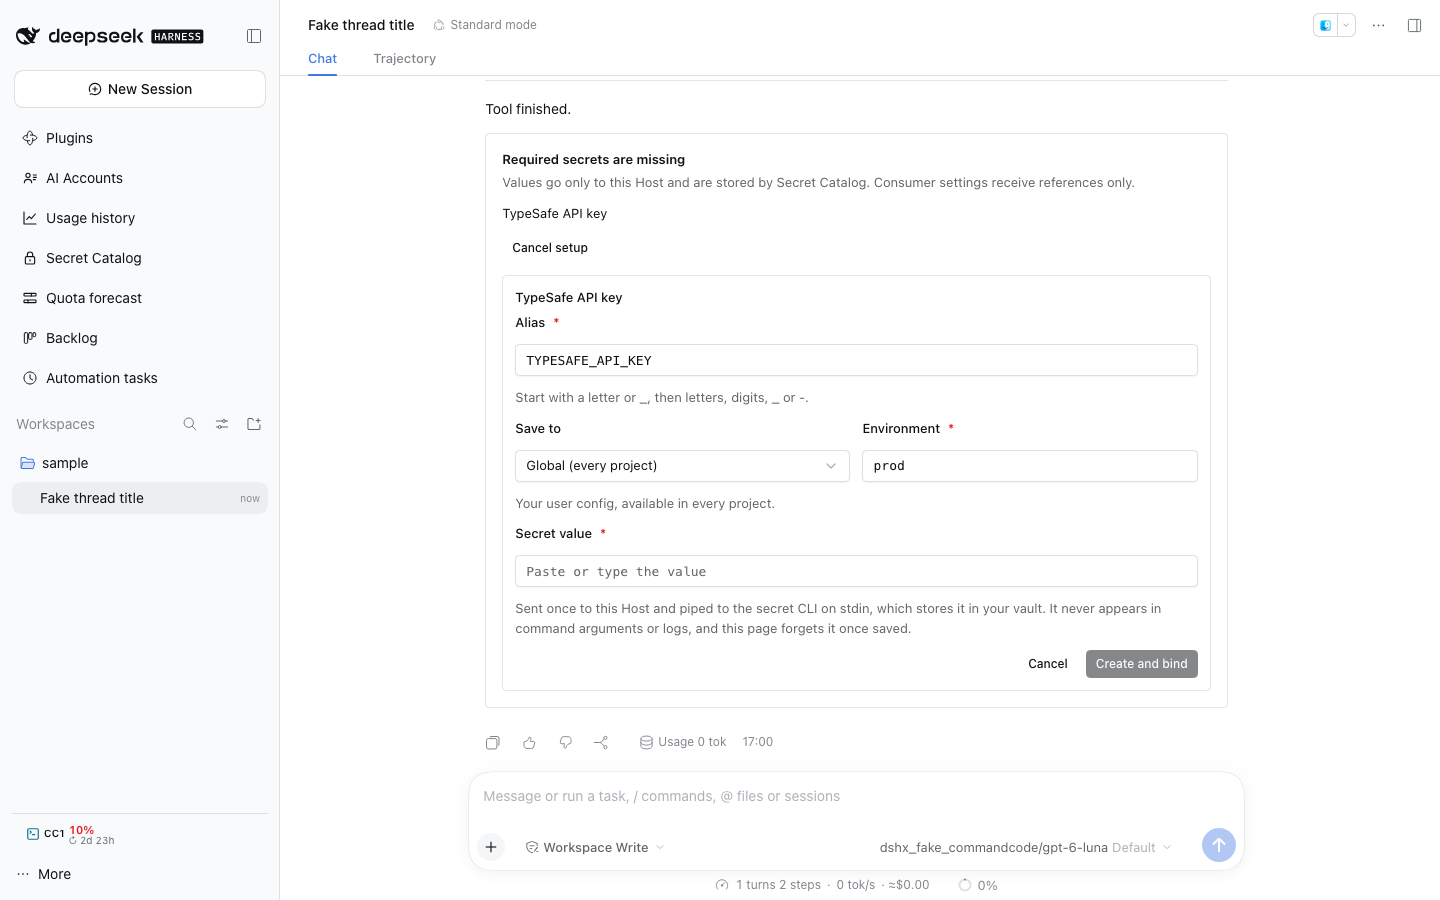
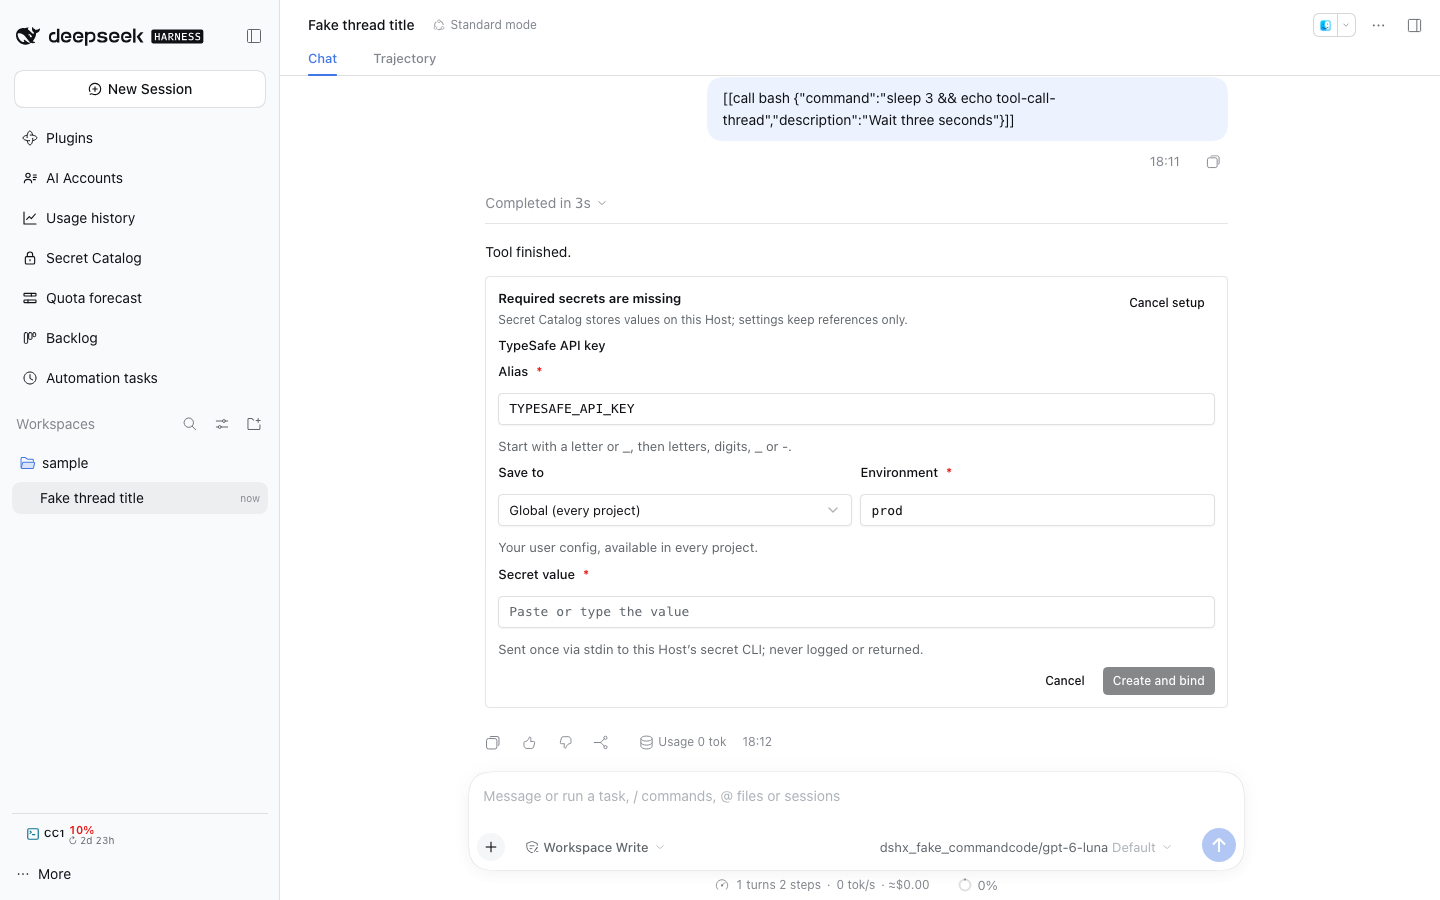
style(secret-catalog): compact secret setup surfaces
Flatten the missing-secret offer and tighten the shared setup form so chat and settings popovers use less space without changing setup behavior or reference-only persistence.

diff --git a/plugins/@dshfiles/secret-catalog/src/setup.tsx b/plugins/@dshfiles/secret-catalog/src/setup.tsx
@@ -78,25 +78,18 @@ export const SecretSetupOffer = (props: SecretSetupOfferProps): JSX.Element | nu
     setOpened(false)
     setEditingIds(new Set())
   }
+  const visibleRequirements = props.missing.filter(requirement => !opened || boundIds.has(requirement.id) || !editingIds.has(requirement.id))
 
   return (
     <section
-      className="dshx-root dshx:@container dshx:flex dshx:flex-col dshx:gap-3 dshx:rounded-md dshx:border dshx:border-border dshx:bg-card dshx:p-4"
+      className="dshx-root dshx:@container dshx:flex dshx:flex-col dshx:gap-2 dshx:rounded-md dshx:border dshx:border-border dshx:bg-card dshx:p-3"
       data-testid="secret-setup-offer"
     >
-      <div className="dshx:flex dshx:flex-col dshx:gap-1">
-        <h3 className="dshx:text-sm dshx:font-semibold">{props.t('setupRequiredTitle')}</h3>
-        <p className="dshx:text-sm dshx:text-muted-foreground">{props.t('setupRequiredDescription')}</p>
-      </div>
-      <ul className="dshx:flex dshx:flex-col dshx:gap-2">
-        {props.missing.map(requirement => (
-          <li className="dshx:flex dshx:flex-wrap dshx:items-center dshx:justify-between dshx:gap-2" key={requirement.id}>
-            <span className="dshx:min-w-0 dshx:truncate dshx:text-sm">{requirement.label}</span>
-            {boundIds.has(requirement.id) ? <span className="dshx:text-xs dshx:text-success">{props.t('setupBound')}</span> : null}
-          </li>
-        ))}
-      </ul>
-      <div className="dshx:flex dshx:flex-wrap dshx:gap-2">
+      <div className="dshx:flex dshx:flex-wrap dshx:items-start dshx:justify-between dshx:gap-2">
+        <div className="dshx:flex dshx:min-w-0 dshx:flex-1 dshx:flex-col dshx:gap-1">
+          <h3 className="dshx:text-sm dshx:font-semibold">{props.t('setupRequiredTitle')}</h3>
+          <p className="dshx:text-xs dshx:text-muted-foreground">{props.t('setupRequiredDescription')}</p>
+        </div>
         {opened ? (
           <Button disabled={busyIds.size > 0} onClick={closeSetup} size="sm" type="button" variant="ghost">
             {props.t('setupCancel')}
@@ -107,8 +100,18 @@ export const SecretSetupOffer = (props: SecretSetupOfferProps): JSX.Element | nu
           </Button>
         )}
       </div>
+      {visibleRequirements.length > 0 ? (
+        <ul className="dshx:flex dshx:flex-col dshx:gap-1">
+          {visibleRequirements.map(requirement => (
+            <li className="dshx:flex dshx:flex-wrap dshx:items-center dshx:justify-between dshx:gap-2" key={requirement.id}>
+              <span className="dshx:min-w-0 dshx:truncate dshx:text-sm">{requirement.label}</span>
+              {boundIds.has(requirement.id) ? <span className="dshx:text-xs dshx:text-success">{props.t('setupBound')}</span> : null}
+            </li>
+          ))}
+        </ul>
+      ) : null}
       {opened ? (
-        <div className="dshx:flex dshx:flex-col dshx:gap-4">
+        <div className="dshx:flex dshx:flex-col dshx:gap-3">
           {props.missing.map(requirement => {
             if (boundIds.has(requirement.id)) return null
             if (!editingIds.has(requirement.id)) {
@@ -122,7 +125,7 @@ export const SecretSetupOffer = (props: SecretSetupOfferProps): JSX.Element | nu
               )
             }
             return (
-              <div className="dshx:flex dshx:flex-col dshx:gap-2 dshx:rounded-md dshx:border dshx:border-border dshx:p-3" key={requirement.id}>
+              <div className="dshx:flex dshx:flex-col dshx:gap-2" key={requirement.id}>
                 <h4 className="dshx:text-sm dshx:font-medium">{requirement.label}</h4>
                 <SecretSetupForm
                   {...(createdReferences[requirement.id] === undefined ? {} : { createdReference: createdReferences[requirement.id] })}

diff --git a/plugins/@dshfiles/secret-catalog/src/secret-input-overlay.tsx b/plugins/@dshfiles/secret-catalog/src/secret-input-overlay.tsx
@@ -231,7 +231,7 @@ export const SecretInputOverlay = (props: SecretInputOverlayProps): JSX.Element 
       {open ? (
         <div
           ref={panelRef}
-          aria-label={jevSetupOpen ? props.t('jevSetupTitle') : creating ? props.t('setupCreateAndBind') : props.t('bindSecret')}
+          aria-label={jevSetupOpen ? props.t('jevSetupTitle') : props.t(creating ? 'setupCreateAndBind' : 'bindSecret')}
           className="dshx-root dshx:pointer-events-auto dshx:flex dshx:w-80 dshx:max-w-[calc(100vw-1rem)] dshx:flex-col dshx:gap-2 dshx:overflow-y-auto dshx:rounded-md dshx:border dshx:border-border dshx:bg-popover dshx:p-2 dshx:text-popover-foreground dshx:shadow-md"
           data-side={placement.side}
           data-testid="secret-input-panel"
@@ -249,29 +249,27 @@ export const SecretInputOverlay = (props: SecretInputOverlayProps): JSX.Element 
               unavailable={jevUnavailable}
             />
           ) : creating ? (
-            <>
-              <p className="dshx:px-1 dshx:text-xs dshx:font-medium">{props.t('setupCreateAndBind')}</p>
-              <SecretSetupForm
-                {...(referenceToRetry === undefined ? {} : { createdReference: referenceToRetry })}
-                onBind={async reference => {
-                  if (!anchor.element.isConnected) throw new Error('The reference field is no longer available.')
-                  SecretInputBinding.writeValue(anchor.element, reference)
-                }}
-                onBound={() => {
-                  setCreatedReference(current => (current?.element === anchor.element ? null : current))
-                  setCreating(false)
-                  setOpen(false)
-                  anchor.element.focus()
-                }}
-                onCancel={() => {
-                  setCreating(false)
-                  anchor.element.focus()
-                }}
-                onCreatedReference={reference => setCreatedReference({ element: anchor.element, reference })}
-                t={props.t}
-                target={targetOf(anchor.element)}
-              />
-            </>
+            <SecretSetupForm
+              {...(referenceToRetry === undefined ? {} : { createdReference: referenceToRetry })}
+              onBind={async reference => {
+                if (!anchor.element.isConnected) throw new Error('The reference field is no longer available.')
+                SecretInputBinding.writeValue(anchor.element, reference)
+              }}
+              onBound={() => {
+                setCreatedReference(current => (current?.element === anchor.element ? null : current))
+                setCreating(false)
+                setOpen(false)
+                anchor.element.focus()
+              }}
+              onCancel={() => {
+                setCreating(false)
+                anchor.element.focus()
+              }}
+              onCreatedReference={reference => setCreatedReference({ element: anchor.element, reference })}
+              t={props.t}
+              target={targetOf(anchor.element)}
+            />
+
           ) : (
             <>
               <p className="dshx:px-1 dshx:text-xs dshx:font-medium">{props.t('bindSecret')}</p>

diff --git a/plugins/@dshfiles/secret-catalog/src/locales.ts b/plugins/@dshfiles/secret-catalog/src/locales.ts
@@ -109,8 +109,7 @@ const en = {
   valueGenerate: 'Generate on this Host',
   valueManual: 'Enter a value',
   manualHint: 'Type or paste it in a masked field.',
-  manualValueHint:
-    'Sent once to this Host and piped to the secret CLI on stdin, which stores it in your vault. It never appears in command arguments or logs, and this page forgets it once saved.',
+  manualValueHint: 'Sent once via stdin to this Host’s secret CLI; never logged or returned.',
   valuePlaceholder: 'Paste or type the value',
   generateHint: 'The secret CLI creates a random value on this Host. It never reaches this browser.',
   fieldSecretValue: 'Secret value',
@@ -134,7 +133,7 @@ const en = {
   noBindableAliases: 'No unique alias matches. Add a new secret or resolve duplicate aliases in the catalog.',
   setupAddAndBind: 'Add a new secret',
   setupRequiredTitle: 'Required secrets are missing',
-  setupRequiredDescription: 'Values go only to this Host and are stored by Secret Catalog. Consumer settings receive references only.',
+  setupRequiredDescription: 'Secret Catalog stores values on this Host; settings keep references only.',
   setupOpen: 'Set up missing secrets',
   setupCancel: 'Cancel setup',
   setupResume: 'Set up',
@@ -277,7 +276,7 @@ const zh = {
   valueGenerate: '在此 Host 上生成',
   valueManual: '输入值',
   manualHint: '在隐藏输入框中输入或粘贴。',
-  manualValueHint: '值只发送一次到此 Host，并通过 stdin 交给密钥 CLI 存入你的保管库。它不会出现在命令参数或日志中，保存后此页面也不会保留。',
+  manualValueHint: '值通过 stdin 一次性发送到此 Host 的密钥 CLI；不会记录日志或返回。',
   valuePlaceholder: '粘贴或输入值',
   generateHint: '密钥 CLI 会在此 Host 上生成随机值，它不会到达此浏览器。',
   fieldSecretValue: '密钥值',
@@ -301,7 +300,7 @@ const zh = {
   noBindableAliases: '没有唯一匹配的别名。请添加新密钥，或在目录中解决重复别名。',
   setupAddAndBind: '添加新密钥',
   setupRequiredTitle: '缺少必需的密钥',
-  setupRequiredDescription: '值仅发送到此 Host 并由密钥目录保存。使用方设置只接收引用。',
+  setupRequiredDescription: '密钥目录将值存储在此 Host；设置仅保存引用。',
   setupOpen: '设置缺少的密钥',
   setupCancel: '取消设置',
   setupResume: '设置',

diff --git a/plugins/@dshfiles/secret-catalog/src/secret-setup-form.tsx b/plugins/@dshfiles/secret-catalog/src/secret-setup-form.tsx
@@ -162,7 +162,7 @@ export const SecretSetupForm = (props: SecretSetupFormProps): JSX.Element => {
 
   return (
     <form
-      className="dshx-root dshx:@container dshx:flex dshx:flex-col dshx:gap-3"
+      className="dshx-root dshx:@container dshx:flex dshx:flex-col dshx:gap-2"
       data-testid="secret-setup-form"
       noValidate
       onSubmit={submitWith(form.handleSubmit)}
@@ -195,7 +195,7 @@ export const SecretSetupForm = (props: SecretSetupFormProps): JSX.Element => {
               <field.TextField description={props.t('aliasHint')} label={props.t('fieldAlias')} monospace placeholder={props.t('aliasPlaceholder')} required />
             )}
           </form.AppField>
-          <div className="dshx:grid dshx:gap-3 dshx:grid-cols-2 dshx:@max-pane-narrow:grid-cols-1">
+          <div className="dshx:grid dshx:gap-2 dshx:grid-cols-2 dshx:@max-pane-narrow:grid-cols-1">
             <form.Subscribe selector={state => state.values.scope}>
               {scope => (
                 <form.AppField name="scope">
